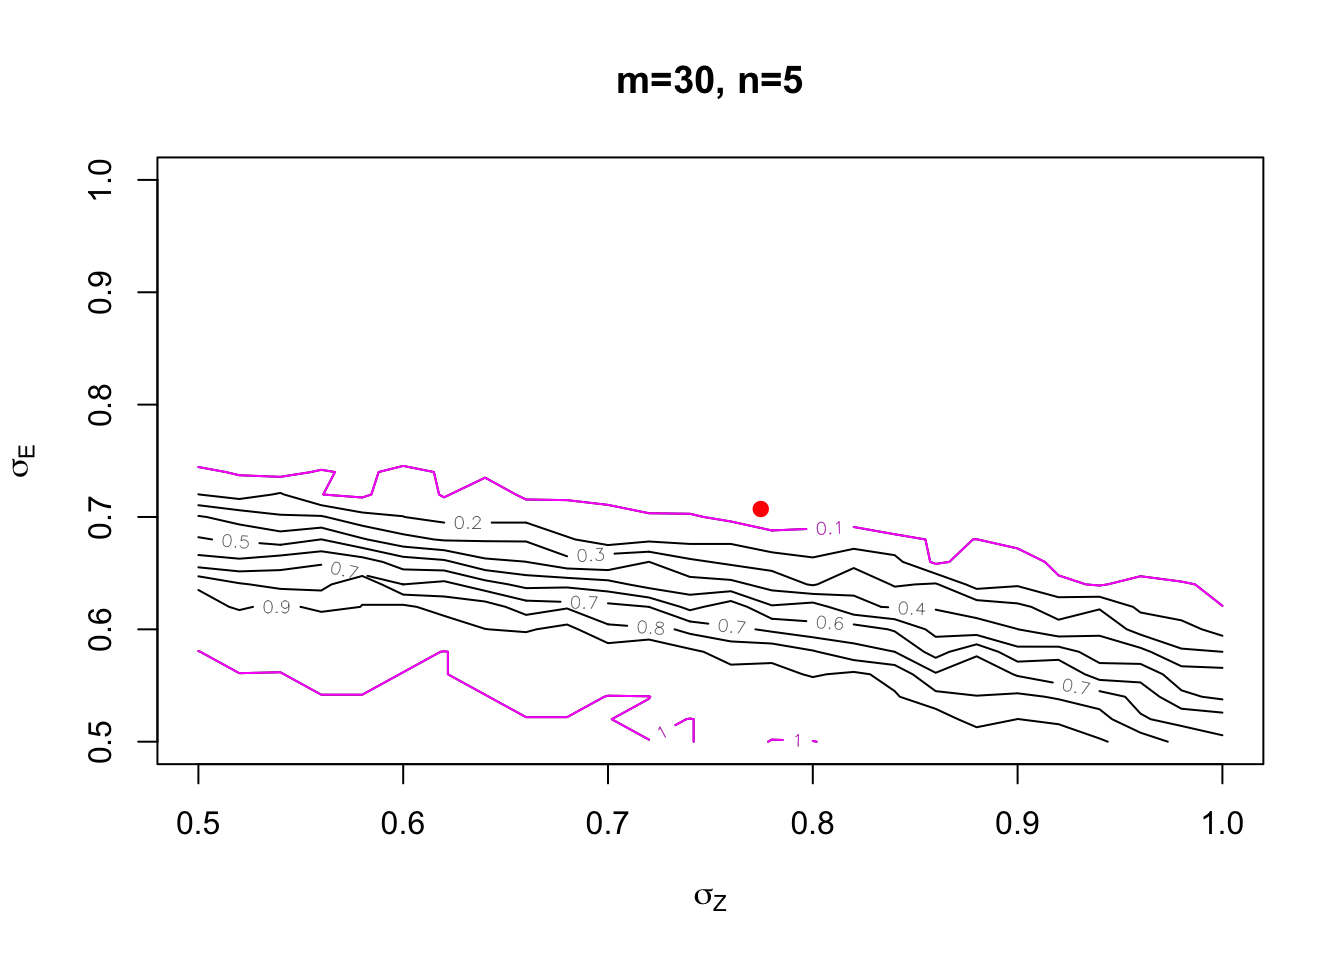
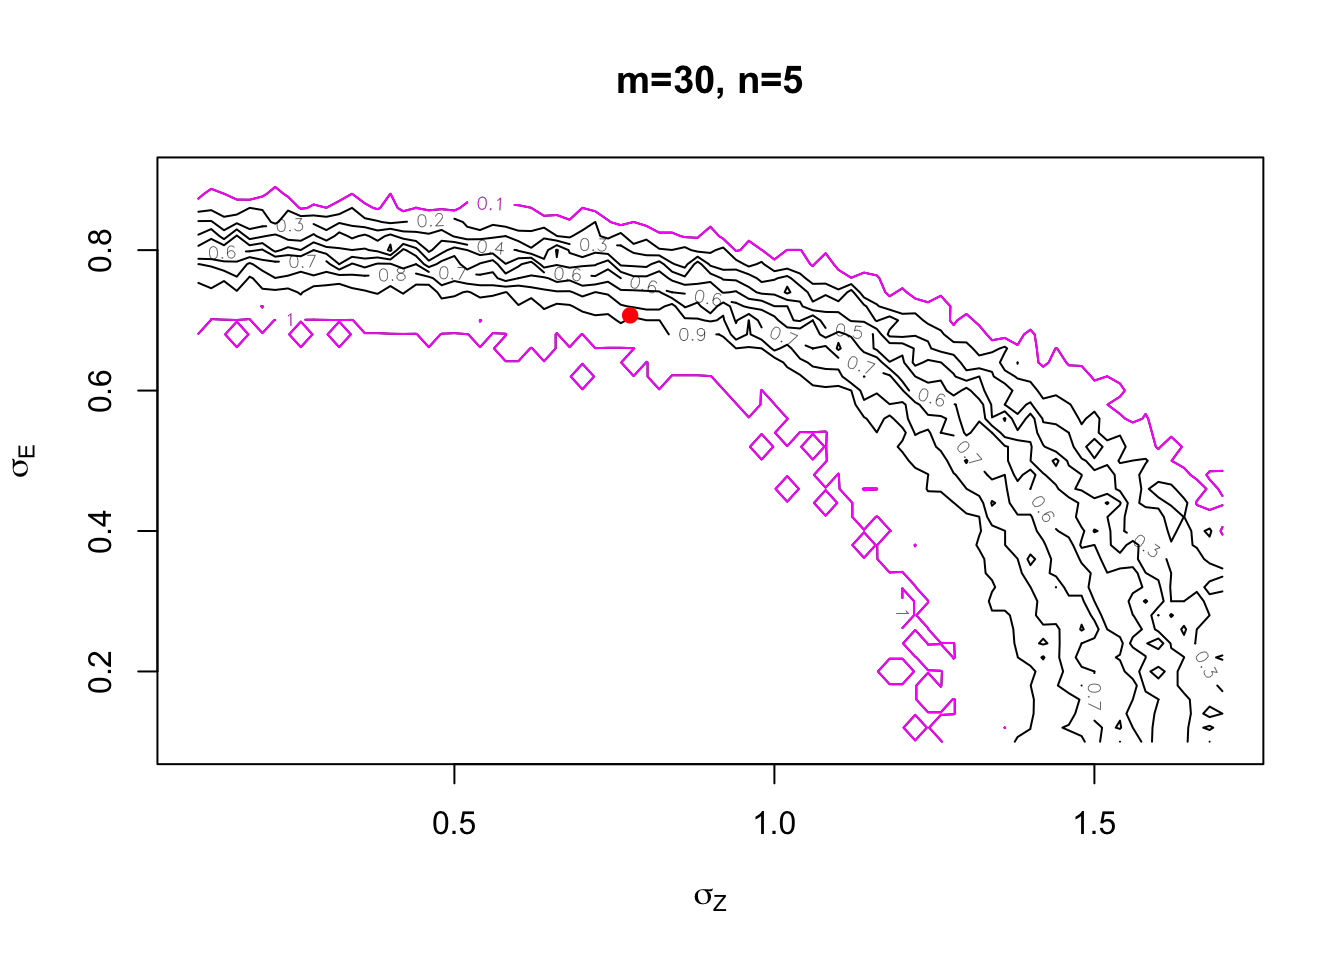
update

diff --git a/docs/tutorial/RandomEffect.html b/docs/tutorial/RandomEffect.html
@@ -504,40 +504,41 @@ window.Quarto = {
 <span id="cb3-4"><a href="#cb3-4" aria-hidden="true" tabindex="-1"></a>tau2 <span class="ot">&lt;-</span> .<span class="dv">6</span></span>
 <span id="cb3-5"><a href="#cb3-5" aria-hidden="true" tabindex="-1"></a>size <span class="ot">&lt;-</span> <span class="dv">100</span></span>
 <span id="cb3-6"><a href="#cb3-6" aria-hidden="true" tabindex="-1"></a></span>
-<span id="cb3-7"><a href="#cb3-7" aria-hidden="true" tabindex="-1"></a>thetaZ <span class="ot">&lt;-</span> thetaE <span class="ot">&lt;-</span> <span class="fu">seq</span>(.<span class="dv">5</span>, <span class="dv">1</span>, <span class="at">by=</span>.<span class="dv">02</span>)</span>
-<span id="cb3-8"><a href="#cb3-8" aria-hidden="true" tabindex="-1"></a>pi <span class="ot">&lt;-</span> <span class="fu">outer</span>(thetaZ, thetaE)</span>
-<span id="cb3-9"><a href="#cb3-9" aria-hidden="true" tabindex="-1"></a></span>
-<span id="cb3-10"><a href="#cb3-10" aria-hidden="true" tabindex="-1"></a>e <span class="ot">&lt;-</span> <span class="fu">sqrt</span>(sig2) <span class="sc">*</span> <span class="fu">matrix</span>(<span class="fu">rnorm</span>(m <span class="sc">*</span> n), <span class="at">nrow=</span>m) </span>
-<span id="cb3-11"><a href="#cb3-11" aria-hidden="true" tabindex="-1"></a>z <span class="ot">&lt;-</span> <span class="fu">sqrt</span>(tau2) <span class="sc">*</span> <span class="fu">rnorm</span>(m)</span>
-<span id="cb3-12"><a href="#cb3-12" aria-hidden="true" tabindex="-1"></a>x <span class="ot">&lt;-</span> e<span class="sc">+</span>z</span>
-<span id="cb3-13"><a href="#cb3-13" aria-hidden="true" tabindex="-1"></a></span>
-<span id="cb3-14"><a href="#cb3-14" aria-hidden="true" tabindex="-1"></a><span class="cf">for</span> (i <span class="cf">in</span> <span class="fu">seq_along</span>(thetaZ)){</span>
-<span id="cb3-15"><a href="#cb3-15" aria-hidden="true" tabindex="-1"></a>  <span class="cf">for</span> (j <span class="cf">in</span> <span class="fu">seq_along</span>(thetaE)){</span>
-<span id="cb3-16"><a href="#cb3-16" aria-hidden="true" tabindex="-1"></a>    </span>
-<span id="cb3-17"><a href="#cb3-17" aria-hidden="true" tabindex="-1"></a>    ttau2 <span class="ot">&lt;-</span> thetaZ[i]<span class="sc">^</span><span class="dv">2</span></span>
-<span id="cb3-18"><a href="#cb3-18" aria-hidden="true" tabindex="-1"></a>    ssig2 <span class="ot">&lt;-</span> thetaE[j]<span class="sc">^</span><span class="dv">2</span></span>
-<span id="cb3-19"><a href="#cb3-19" aria-hidden="true" tabindex="-1"></a>    </span>
-<span id="cb3-20"><a href="#cb3-20" aria-hidden="true" tabindex="-1"></a>    LHS <span class="ot">&lt;-</span> <span class="fu">rep</span>(<span class="cn">NA</span>, size)</span>
-<span id="cb3-21"><a href="#cb3-21" aria-hidden="true" tabindex="-1"></a>    </span>
-<span id="cb3-22"><a href="#cb3-22" aria-hidden="true" tabindex="-1"></a>    <span class="cf">for</span> (s <span class="cf">in</span> <span class="dv">1</span><span class="sc">:</span>size){</span>
-<span id="cb3-23"><a href="#cb3-23" aria-hidden="true" tabindex="-1"></a>      </span>
-<span id="cb3-24"><a href="#cb3-24" aria-hidden="true" tabindex="-1"></a>      Z <span class="ot">&lt;-</span> <span class="fu">sqrt</span>(ttau2) <span class="sc">*</span> <span class="fu">rnorm</span>(m)</span>
-<span id="cb3-25"><a href="#cb3-25" aria-hidden="true" tabindex="-1"></a>      E <span class="ot">&lt;-</span> <span class="fu">sqrt</span>(ssig2) <span class="sc">*</span> <span class="fu">matrix</span>(<span class="fu">rnorm</span>(m <span class="sc">*</span> n), <span class="at">nrow =</span> m)</span>
-<span id="cb3-26"><a href="#cb3-26" aria-hidden="true" tabindex="-1"></a>      X <span class="ot">&lt;-</span> E <span class="sc">+</span> Z</span>
-<span id="cb3-27"><a href="#cb3-27" aria-hidden="true" tabindex="-1"></a>      </span>
-<span id="cb3-28"><a href="#cb3-28" aria-hidden="true" tabindex="-1"></a>      LHS[s] <span class="ot">&lt;-</span> <span class="fu">logrellik</span>(X, ssig2, ttau2)<span class="sc">$</span>logrellik</span>
-<span id="cb3-29"><a href="#cb3-29" aria-hidden="true" tabindex="-1"></a>      </span>
-<span id="cb3-30"><a href="#cb3-30" aria-hidden="true" tabindex="-1"></a>    }</span>
-<span id="cb3-31"><a href="#cb3-31" aria-hidden="true" tabindex="-1"></a>    RHS <span class="ot">&lt;-</span> <span class="fu">logrellik</span>(x, ssig2, ttau2)<span class="sc">$</span>logrellik</span>
-<span id="cb3-32"><a href="#cb3-32" aria-hidden="true" tabindex="-1"></a>    pi[i, j] <span class="ot">&lt;-</span> <span class="fu">mean</span>(LHS <span class="sc">&lt;=</span> RHS)</span>
-<span id="cb3-33"><a href="#cb3-33" aria-hidden="true" tabindex="-1"></a>    </span>
-<span id="cb3-34"><a href="#cb3-34" aria-hidden="true" tabindex="-1"></a>  }</span>
-<span id="cb3-35"><a href="#cb3-35" aria-hidden="true" tabindex="-1"></a>}</span>
-<span id="cb3-36"><a href="#cb3-36" aria-hidden="true" tabindex="-1"></a></span>
-<span id="cb3-37"><a href="#cb3-37" aria-hidden="true" tabindex="-1"></a><span class="fu">plot</span>(<span class="dv">0</span>, <span class="dv">0</span>, <span class="at">type =</span> <span class="st">"n"</span>, <span class="at">xlim =</span> <span class="fu">c</span>(.<span class="dv">5</span>, <span class="dv">1</span>), <span class="at">ylim =</span> <span class="fu">c</span>(.<span class="dv">5</span>, <span class="dv">1</span>), <span class="at">xlab =</span> <span class="fu">expression</span>(sigma[Z]), <span class="at">ylab =</span> <span class="fu">expression</span>(sigma[E]), <span class="at">main=</span><span class="fu">paste0</span>(<span class="st">"m="</span>,m,<span class="st">", n="</span>,n))</span>
-<span id="cb3-38"><a href="#cb3-38" aria-hidden="true" tabindex="-1"></a><span class="fu">contour</span>(thetaZ, thetaE, pi, <span class="at">drawlabels=</span><span class="cn">TRUE</span>, <span class="at">add=</span><span class="cn">TRUE</span>)</span>
-<span id="cb3-39"><a href="#cb3-39" aria-hidden="true" tabindex="-1"></a><span class="fu">contour</span>(thetaZ, thetaE, pi, <span class="at">levels=</span><span class="fu">c</span>(.<span class="dv">1</span>,<span class="dv">1</span>),<span class="at">add=</span><span class="cn">TRUE</span>, <span class="at">col=</span><span class="st">"magenta"</span>)</span>
-<span id="cb3-40"><a href="#cb3-40" aria-hidden="true" tabindex="-1"></a><span class="fu">points</span>(<span class="fu">sqrt</span>(tau2), <span class="fu">sqrt</span>(sig2), <span class="at">col=</span><span class="st">"red"</span>, <span class="at">pch=</span><span class="dv">19</span>)</span></code></pre></div><button title="Copy to Clipboard" class="code-copy-button"><i class="bi"></i></button></div>
+<span id="cb3-7"><a href="#cb3-7" aria-hidden="true" tabindex="-1"></a>thetaZ <span class="ot">&lt;-</span> <span class="fu">seq</span>(.<span class="dv">1</span>, <span class="fl">1.7</span>, <span class="at">by=</span>.<span class="dv">02</span>)</span>
+<span id="cb3-8"><a href="#cb3-8" aria-hidden="true" tabindex="-1"></a>thetaE <span class="ot">&lt;-</span> <span class="fu">seq</span>(.<span class="dv">1</span>, .<span class="dv">9</span>, <span class="at">by=</span>.<span class="dv">02</span>)</span>
+<span id="cb3-9"><a href="#cb3-9" aria-hidden="true" tabindex="-1"></a>pi <span class="ot">&lt;-</span> <span class="fu">outer</span>(thetaZ, thetaE)</span>
+<span id="cb3-10"><a href="#cb3-10" aria-hidden="true" tabindex="-1"></a></span>
+<span id="cb3-11"><a href="#cb3-11" aria-hidden="true" tabindex="-1"></a>e <span class="ot">&lt;-</span> <span class="fu">sqrt</span>(sig2) <span class="sc">*</span> <span class="fu">matrix</span>(<span class="fu">rnorm</span>(m <span class="sc">*</span> n), <span class="at">nrow=</span>m) </span>
+<span id="cb3-12"><a href="#cb3-12" aria-hidden="true" tabindex="-1"></a>z <span class="ot">&lt;-</span> <span class="fu">sqrt</span>(tau2) <span class="sc">*</span> <span class="fu">rnorm</span>(m)</span>
+<span id="cb3-13"><a href="#cb3-13" aria-hidden="true" tabindex="-1"></a>x <span class="ot">&lt;-</span> e<span class="sc">+</span>z</span>
+<span id="cb3-14"><a href="#cb3-14" aria-hidden="true" tabindex="-1"></a></span>
+<span id="cb3-15"><a href="#cb3-15" aria-hidden="true" tabindex="-1"></a><span class="cf">for</span> (i <span class="cf">in</span> <span class="fu">seq_along</span>(thetaZ)){</span>
+<span id="cb3-16"><a href="#cb3-16" aria-hidden="true" tabindex="-1"></a>  <span class="cf">for</span> (j <span class="cf">in</span> <span class="fu">seq_along</span>(thetaE)){</span>
+<span id="cb3-17"><a href="#cb3-17" aria-hidden="true" tabindex="-1"></a>    </span>
+<span id="cb3-18"><a href="#cb3-18" aria-hidden="true" tabindex="-1"></a>    ttau2 <span class="ot">&lt;-</span> thetaZ[i]<span class="sc">^</span><span class="dv">2</span></span>
+<span id="cb3-19"><a href="#cb3-19" aria-hidden="true" tabindex="-1"></a>    ssig2 <span class="ot">&lt;-</span> thetaE[j]<span class="sc">^</span><span class="dv">2</span></span>
+<span id="cb3-20"><a href="#cb3-20" aria-hidden="true" tabindex="-1"></a>    </span>
+<span id="cb3-21"><a href="#cb3-21" aria-hidden="true" tabindex="-1"></a>    LHS <span class="ot">&lt;-</span> <span class="fu">rep</span>(<span class="cn">NA</span>, size)</span>
+<span id="cb3-22"><a href="#cb3-22" aria-hidden="true" tabindex="-1"></a>    </span>
+<span id="cb3-23"><a href="#cb3-23" aria-hidden="true" tabindex="-1"></a>    <span class="cf">for</span> (s <span class="cf">in</span> <span class="dv">1</span><span class="sc">:</span>size){</span>
+<span id="cb3-24"><a href="#cb3-24" aria-hidden="true" tabindex="-1"></a>      </span>
+<span id="cb3-25"><a href="#cb3-25" aria-hidden="true" tabindex="-1"></a>      Z <span class="ot">&lt;-</span> <span class="fu">sqrt</span>(ttau2) <span class="sc">*</span> <span class="fu">rnorm</span>(m)</span>
+<span id="cb3-26"><a href="#cb3-26" aria-hidden="true" tabindex="-1"></a>      E <span class="ot">&lt;-</span> <span class="fu">sqrt</span>(ssig2) <span class="sc">*</span> <span class="fu">matrix</span>(<span class="fu">rnorm</span>(m <span class="sc">*</span> n), <span class="at">nrow =</span> m)</span>
+<span id="cb3-27"><a href="#cb3-27" aria-hidden="true" tabindex="-1"></a>      X <span class="ot">&lt;-</span> E <span class="sc">+</span> Z</span>
+<span id="cb3-28"><a href="#cb3-28" aria-hidden="true" tabindex="-1"></a>      </span>
+<span id="cb3-29"><a href="#cb3-29" aria-hidden="true" tabindex="-1"></a>      LHS[s] <span class="ot">&lt;-</span> <span class="fu">logrellik</span>(X, ssig2, ttau2)<span class="sc">$</span>logrellik</span>
+<span id="cb3-30"><a href="#cb3-30" aria-hidden="true" tabindex="-1"></a>      </span>
+<span id="cb3-31"><a href="#cb3-31" aria-hidden="true" tabindex="-1"></a>    }</span>
+<span id="cb3-32"><a href="#cb3-32" aria-hidden="true" tabindex="-1"></a>    RHS <span class="ot">&lt;-</span> <span class="fu">logrellik</span>(x, ssig2, ttau2)<span class="sc">$</span>logrellik</span>
+<span id="cb3-33"><a href="#cb3-33" aria-hidden="true" tabindex="-1"></a>    pi[i, j] <span class="ot">&lt;-</span> <span class="fu">mean</span>(LHS <span class="sc">&lt;=</span> RHS)</span>
+<span id="cb3-34"><a href="#cb3-34" aria-hidden="true" tabindex="-1"></a>    </span>
+<span id="cb3-35"><a href="#cb3-35" aria-hidden="true" tabindex="-1"></a>  }</span>
+<span id="cb3-36"><a href="#cb3-36" aria-hidden="true" tabindex="-1"></a>}</span>
+<span id="cb3-37"><a href="#cb3-37" aria-hidden="true" tabindex="-1"></a></span>
+<span id="cb3-38"><a href="#cb3-38" aria-hidden="true" tabindex="-1"></a><span class="fu">plot</span>(<span class="dv">0</span>, <span class="dv">0</span>, <span class="at">type =</span> <span class="st">"n"</span>, <span class="at">xlim =</span> <span class="fu">c</span>(.<span class="dv">1</span>, <span class="fl">1.7</span>), <span class="at">ylim =</span> <span class="fu">c</span>(.<span class="dv">1</span>, .<span class="dv">9</span>), <span class="at">xlab =</span> <span class="fu">expression</span>(sigma[Z]), <span class="at">ylab =</span> <span class="fu">expression</span>(sigma[E]), <span class="at">main=</span><span class="fu">paste0</span>(<span class="st">"m="</span>,m,<span class="st">", n="</span>,n))</span>
+<span id="cb3-39"><a href="#cb3-39" aria-hidden="true" tabindex="-1"></a><span class="fu">contour</span>(thetaZ, thetaE, pi, <span class="at">drawlabels=</span><span class="cn">TRUE</span>, <span class="at">add=</span><span class="cn">TRUE</span>)</span>
+<span id="cb3-40"><a href="#cb3-40" aria-hidden="true" tabindex="-1"></a><span class="fu">contour</span>(thetaZ, thetaE, pi, <span class="at">levels=</span><span class="fu">c</span>(.<span class="dv">1</span>,<span class="dv">1</span>),<span class="at">add=</span><span class="cn">TRUE</span>, <span class="at">col=</span><span class="st">"magenta"</span>)</span>
+<span id="cb3-41"><a href="#cb3-41" aria-hidden="true" tabindex="-1"></a><span class="fu">points</span>(<span class="fu">sqrt</span>(tau2), <span class="fu">sqrt</span>(sig2), <span class="at">col=</span><span class="st">"red"</span>, <span class="at">pch=</span><span class="dv">19</span>)</span></code></pre></div><button title="Copy to Clipboard" class="code-copy-button"><i class="bi"></i></button></div>
 <div class="cell-output-display">
 <div>
 <figure class="figure">
